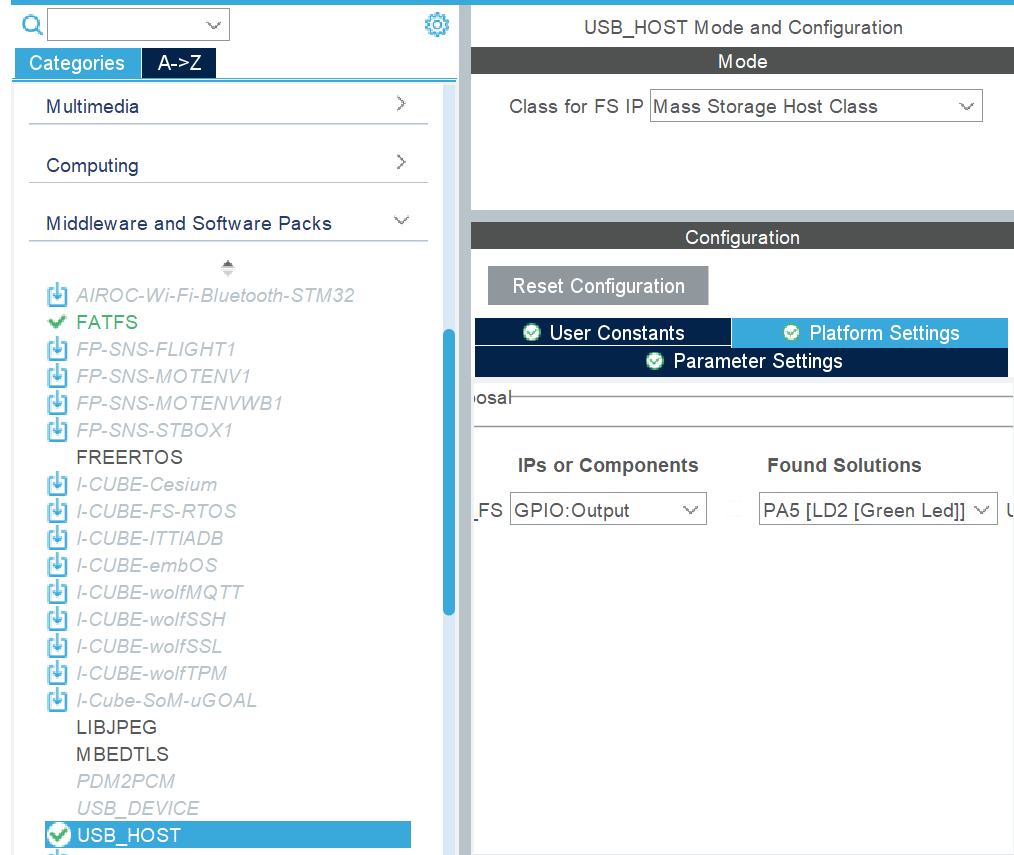
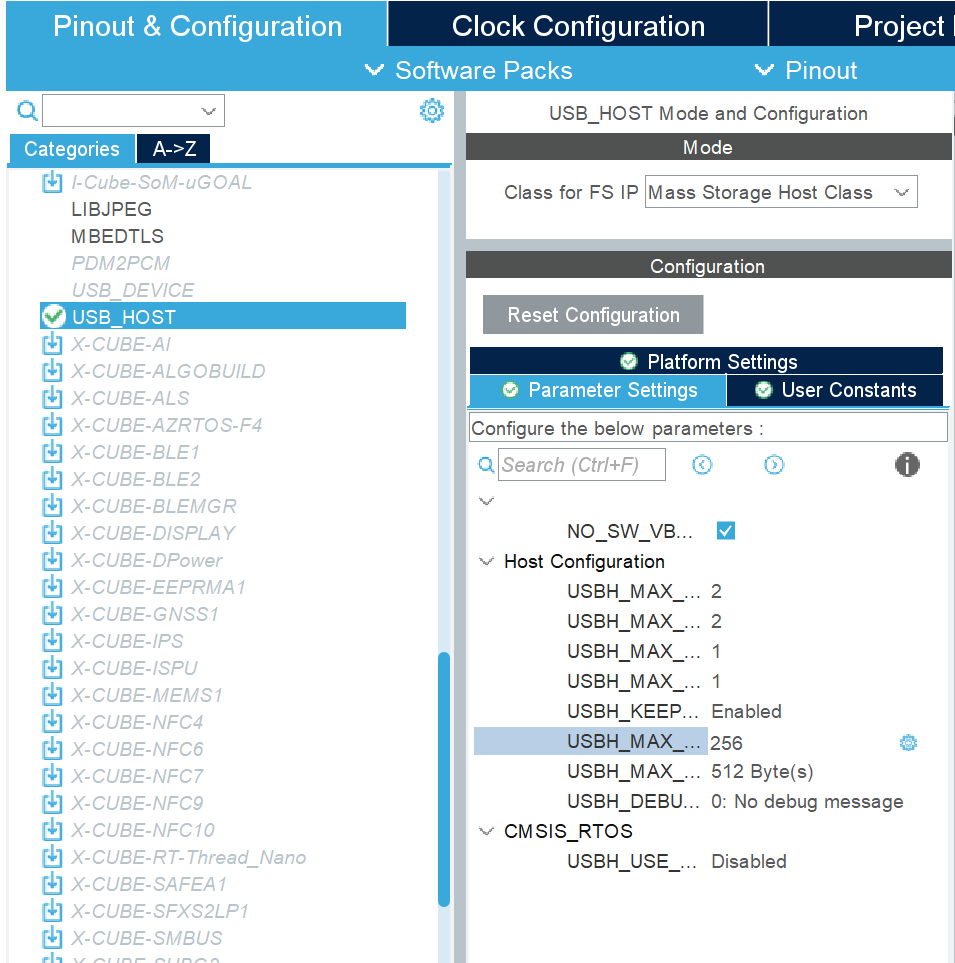
VBUSの設定を変更

diff --git a/docs/STM32/USBMemory.md b/docs/STM32/USBMemory.md
@@ -15,8 +15,7 @@
 3. USB_HOSTの有効化と設定
 >`Middleware and Software Packs`から`USB_HOST`を選択
 >`Class for FS IP`を`Mass Storage Host Class`に設定
->`Platform Settings`の`IPs or Compornents`を`GPIO Output`に設定
->`Platform Settings`の`Found Solutions`を`PA5`に設定
+>`NO_SW_VBUS_DRIVE_FS`にチェックを入れる
 >![](_res/USB_Host_Config.png)
 
 4. FATFSの有効化と設定
